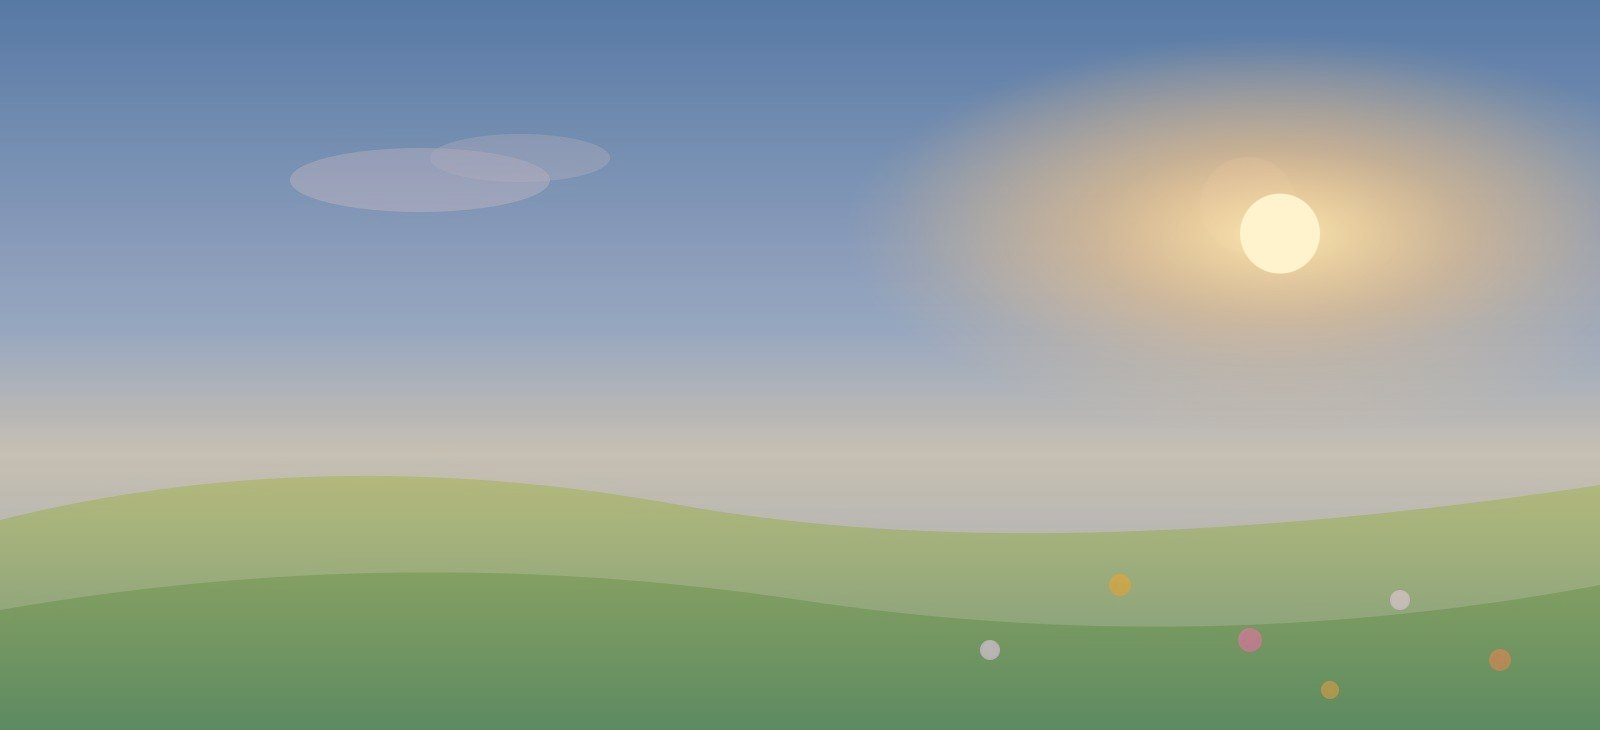
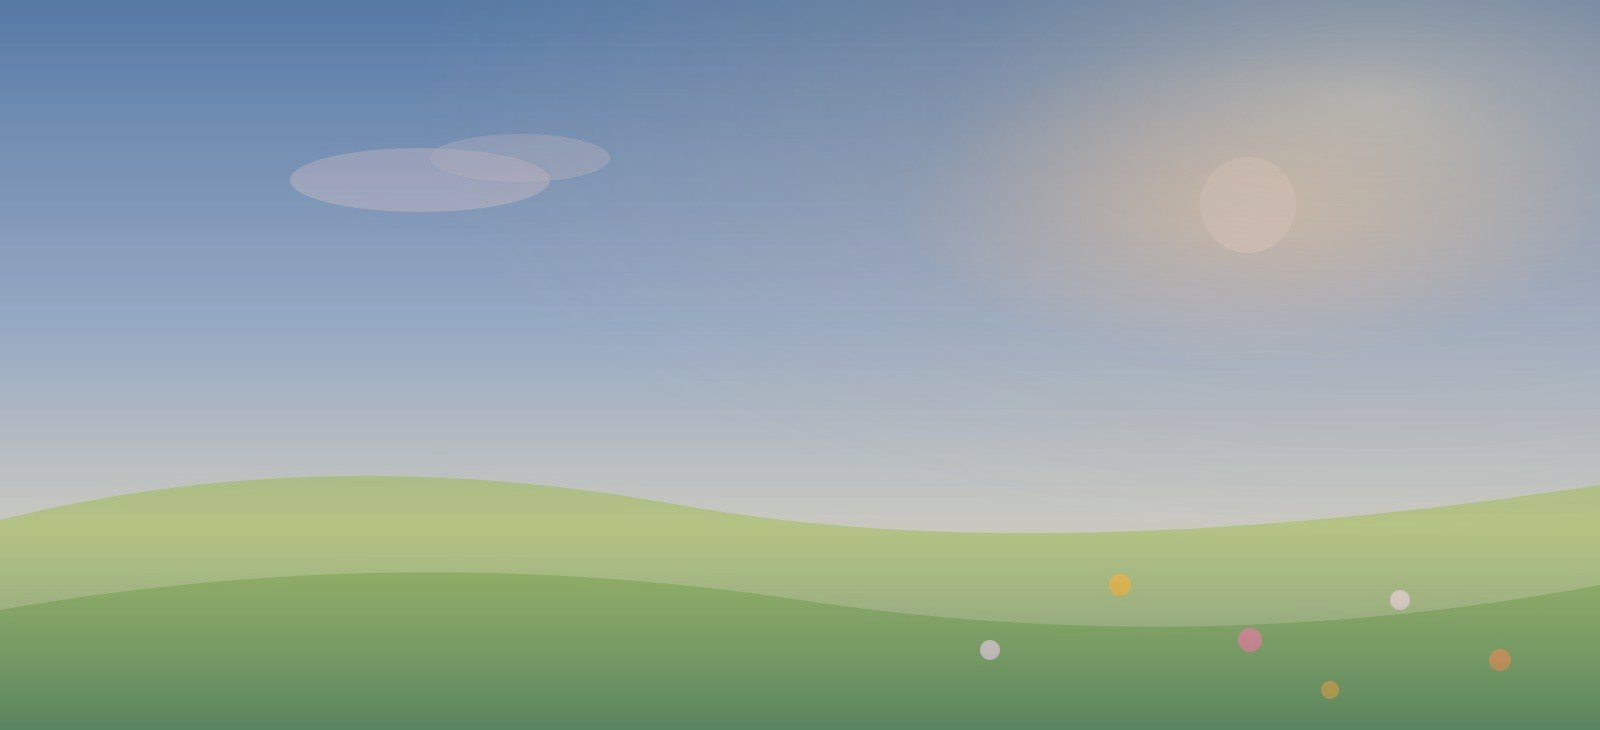
새벽·저녁·밤 배경에서 해·달·별 그림 빼기
사진 위에 해와 달을 원으로 그려 넣으니 붙인 티가 나서 어색했다.
이제 모양을 그리지 않고 빛과 색만으로 시간을 나타낸다 —
새벽은 여명빛, 저녁은 노을빛, 밤은 짙은 남색과 달빛. 아래쪽을
살짝 눌러 글씨도 더 또렷하다. 내장 기본 그림도 같은 규칙으로
다시 만들었다.

Claude-Session: https://claude.ai/code/session_01VDsoJVjkmq7yGfS2oWFvuq

Changed region(s): [[0.5938, 0.0, 1.0, 0.211], [0.6562, 0.2411, 0.9375, 0.4822]]

diff --git a/src/verseBg.ts b/src/verseBg.ts
@@ -158,13 +158,6 @@ function glow(
   ctx.fillRect(0, 0, W, H);
 }
 
-function circle(ctx: CanvasRenderingContext2D, cx: number, cy: number, r: number, color: string) {
-  ctx.beginPath();
-  ctx.arc(cx, cy, r, 0, Math.PI * 2);
-  ctx.fillStyle = color;
-  ctx.fill();
-}
-
 function gradeSlot(ctx: CanvasRenderingContext2D, img: HTMLImageElement, slot: BgSlot) {
   drawCover(ctx, img);
   if (slot === 'morning') {
@@ -175,48 +168,40 @@ function gradeSlot(ctx: CanvasRenderingContext2D, img: HTMLImageElement, slot: B
     ctx.fillRect(0, 0, W, H);
     glow(ctx, W * 0.8, H * 0.15, W * 0.35, 'rgba(255,243,194,0.55)', 'rgba(255,243,194,0.2)');
   } else if (slot === 'dawn') {
-    // 해돋이 — 새벽빛 하늘 + 수평선에서 떠오르는 해
+    // 새벽 — 해 모양을 그려 넣으면 사진 위에 붙인 티가 나서, 하늘색과
+    // 오른쪽 위에서 스며드는 여명 빛으로만 표현한다.
     multiply(ctx, '#D8D2CC');
     vGradient(ctx, [
       [0, 'rgba(61,76,126,0.55)'],
-      [0.45, 'rgba(138,110,140,0.35)'],
-      [0.62, 'rgba(245,166,94,0.35)'],
-      [1, 'rgba(46,58,92,0.35)'],
+      [0.45, 'rgba(138,110,140,0.32)'],
+      [0.72, 'rgba(245,180,120,0.3)'],
+      [1, 'rgba(46,58,92,0.4)'],
     ]);
-    // 해는 글씨(왼쪽 아래)와 날짜 배지(오른쪽 맨 위)를 피해 오른쪽 위에 둔다
-    glow(ctx, W * 0.8, H * 0.32, W * 0.24, 'rgba(255,233,176,0.95)', 'rgba(255,201,126,0.4)');
-    circle(ctx, W * 0.8, H * 0.32, 40, '#FFF3CE');
+    glow(ctx, W * 0.86, H * 0.14, W * 0.6, 'rgba(255,226,180,0.45)', 'rgba(255,205,150,0.14)');
   } else if (slot === 'evening') {
-    // 노을
+    // 노을 — 위는 자주, 아래는 주황빛으로 물들이고
+    // 오른쪽 위에서 지는 햇빛이 스며들게 (해 모양은 그리지 않는다)
     multiply(ctx, '#D3C2B6');
     vGradient(ctx, [
-      [0, 'rgba(74,68,120,0.45)'],
-      [0.4, 'rgba(176,97,136,0.4)'],
-      [0.7, 'rgba(240,138,80,0.45)'],
-      [1, 'rgba(138,74,60,0.4)'],
+      [0, 'rgba(74,68,120,0.5)'],
+      [0.45, 'rgba(176,97,136,0.34)'],
+      [0.78, 'rgba(232,131,76,0.34)'],
+      [1, 'rgba(110,58,48,0.46)'],
     ]);
-    // 지는 해도 같은 이유로 오른쪽 위
-    glow(ctx, W * 0.78, H * 0.3, W * 0.2, 'rgba(255,224,160,0.85)', 'rgba(255,201,126,0.3)');
-    circle(ctx, W * 0.78, H * 0.3, 36, '#FFE9B8');
+    glow(ctx, W * 0.86, H * 0.16, W * 0.62, 'rgba(255,215,154,0.5)', 'rgba(255,180,110,0.16)');
   } else {
-    // 밤 — 어둡게 + 달과 별. 달은 카드 오른쪽 위의 날짜 글씨와 겹치지 않게
-    // 가운데 위쪽에 둔다.
+    // 밤 — 달과 별을 그려 넣으면 사진 위에 붙인 티가 나서,
+    // 짙은 남색으로 낮추고 위쪽에서 스며드는 달빛으로만 표현한다.
     multiply(ctx, '#5F6E92');
     ctx.fillStyle = 'rgba(18,36,76,0.45)';
     ctx.fillRect(0, 0, W, H);
-    const mx = W * 0.58;
-    const my = H * 0.2;
-    glow(ctx, mx, my, W * 0.16, 'rgba(232,240,255,0.4)', 'rgba(232,240,255,0.15)');
-    circle(ctx, mx, my, 40, '#F2ECD4');
-    circle(ctx, mx - 14, my - 11, 8, 'rgba(222,215,188,0.6)');
-    circle(ctx, mx + 13, my + 13, 5, 'rgba(222,215,188,0.5)');
-    for (let i = 0; i < 14; i++) {
-      const x = (i * 397) % W;
-      const y = (i * 173) % (H * 0.45);
-      // 오른쪽 위 날짜 자리와 왼쪽 위 배지 자리는 별도 피한다
-      if (y < H * 0.18 && (x > W * 0.62 || x < W * 0.3)) continue;
-      circle(ctx, x, y, 1.6 + (i % 3) * 0.6, `rgba(255,255,255,${0.5 + (i % 4) * 0.12})`);
-    }
+    glow(ctx, W * 0.7, H * 0.1, W * 0.62, 'rgba(214,230,255,0.3)', 'rgba(190,212,250,0.1)');
+    // 아래쪽을 조금 더 눌러 글씨가 또렷하게
+    vGradient(ctx, [
+      [0, 'rgba(10,20,44,0)'],
+      [0.6, 'rgba(10,20,44,0.12)'],
+      [1, 'rgba(8,16,38,0.4)'],
+    ]);
   }
 }
 
